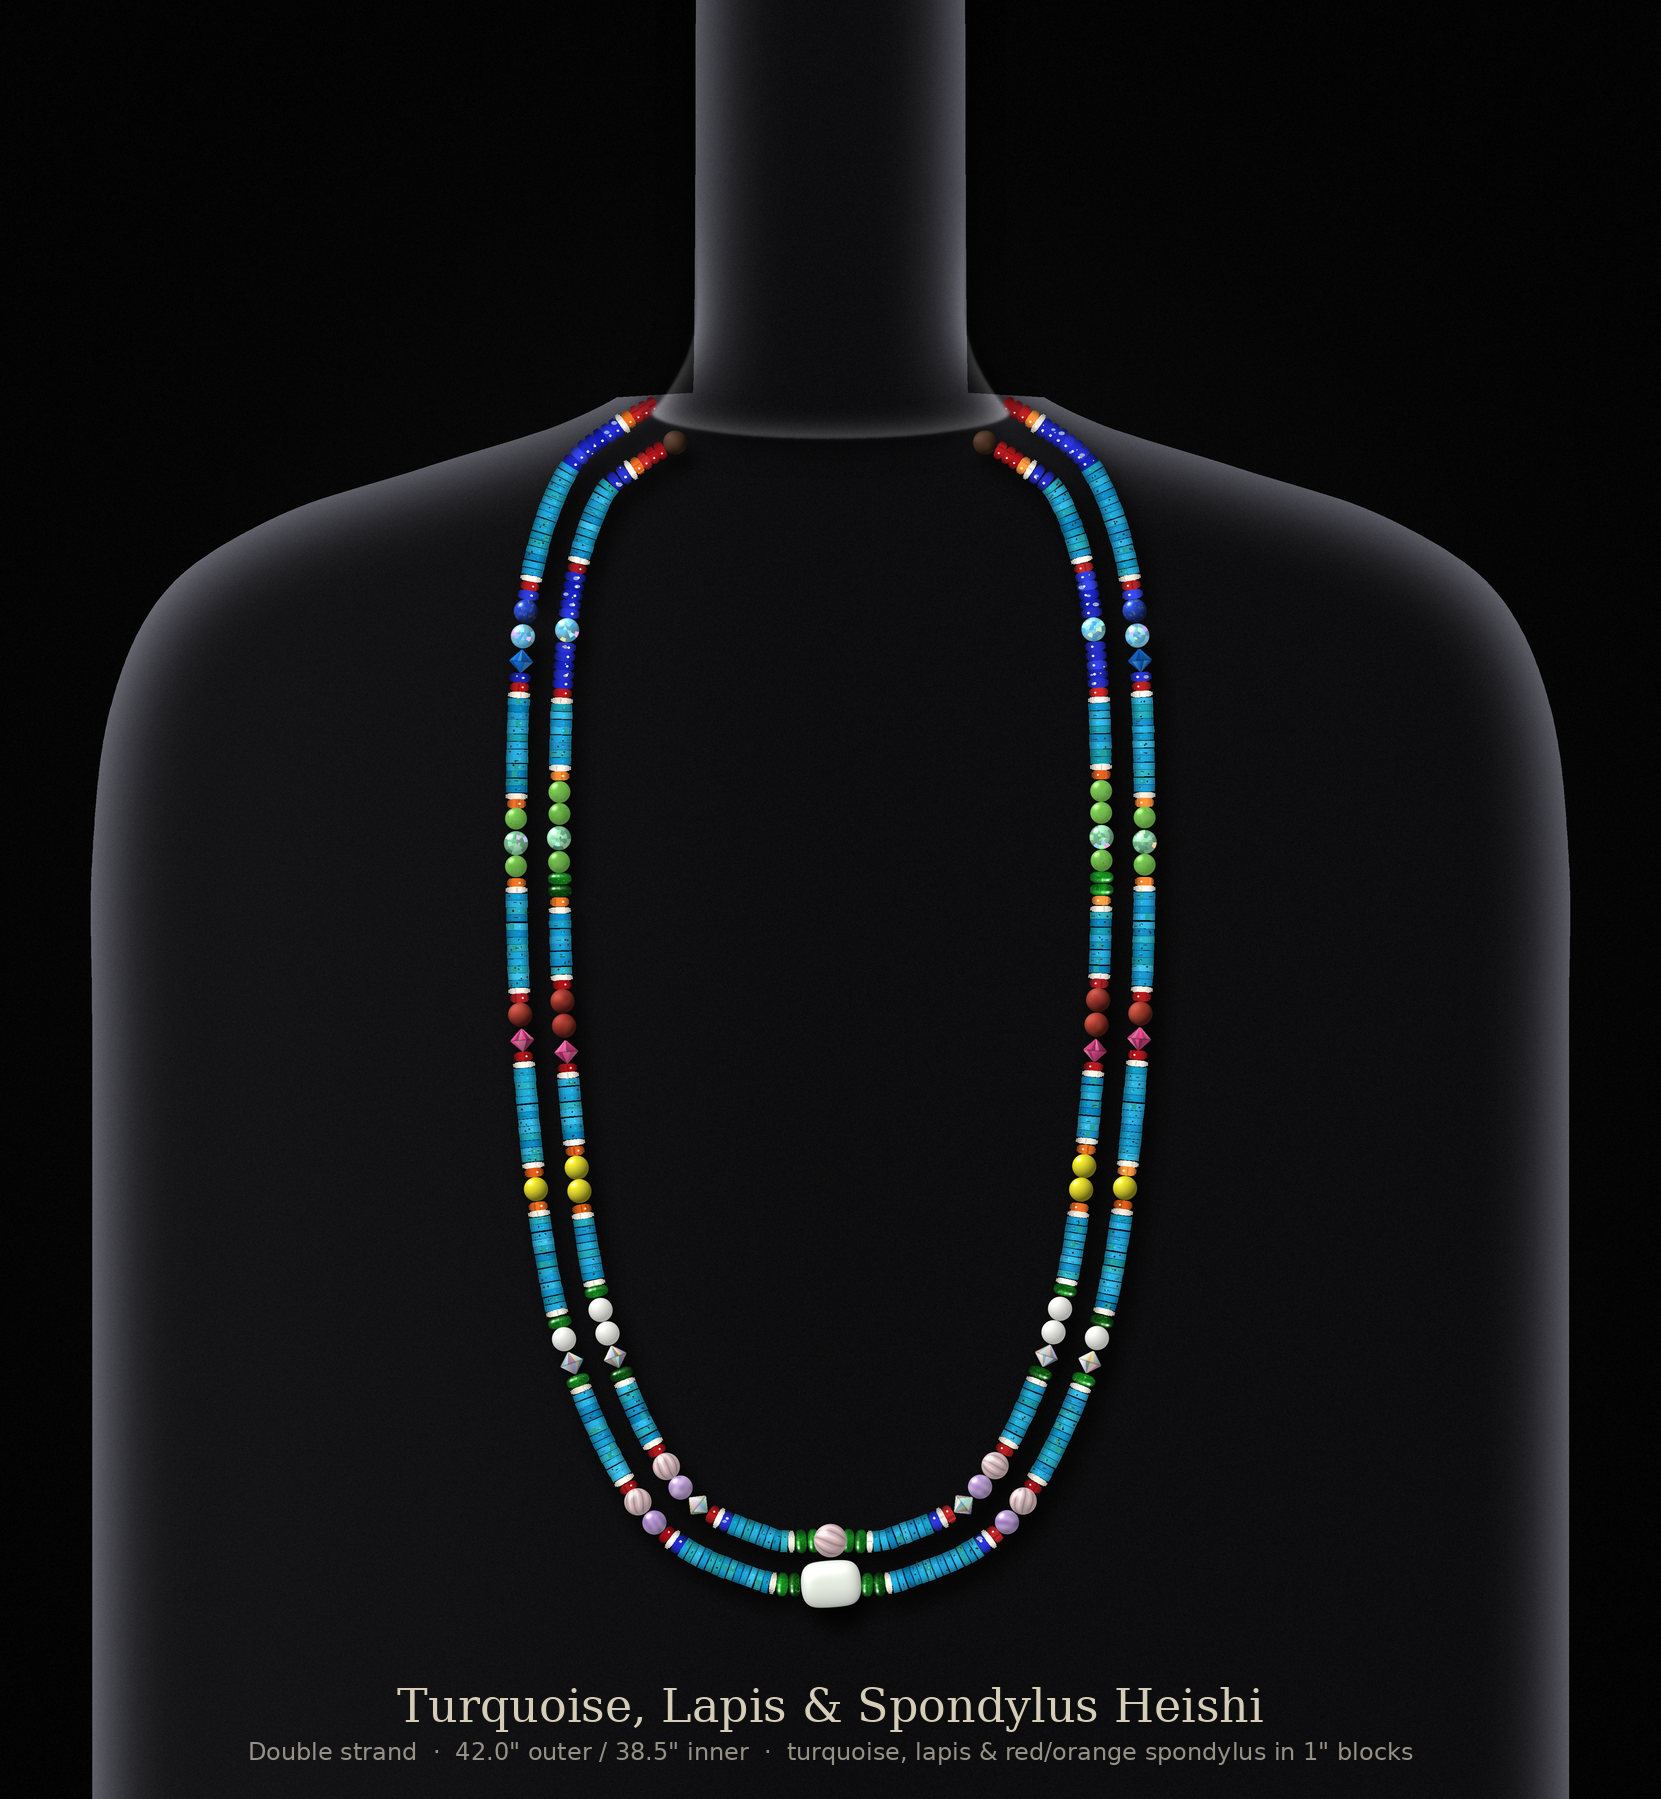
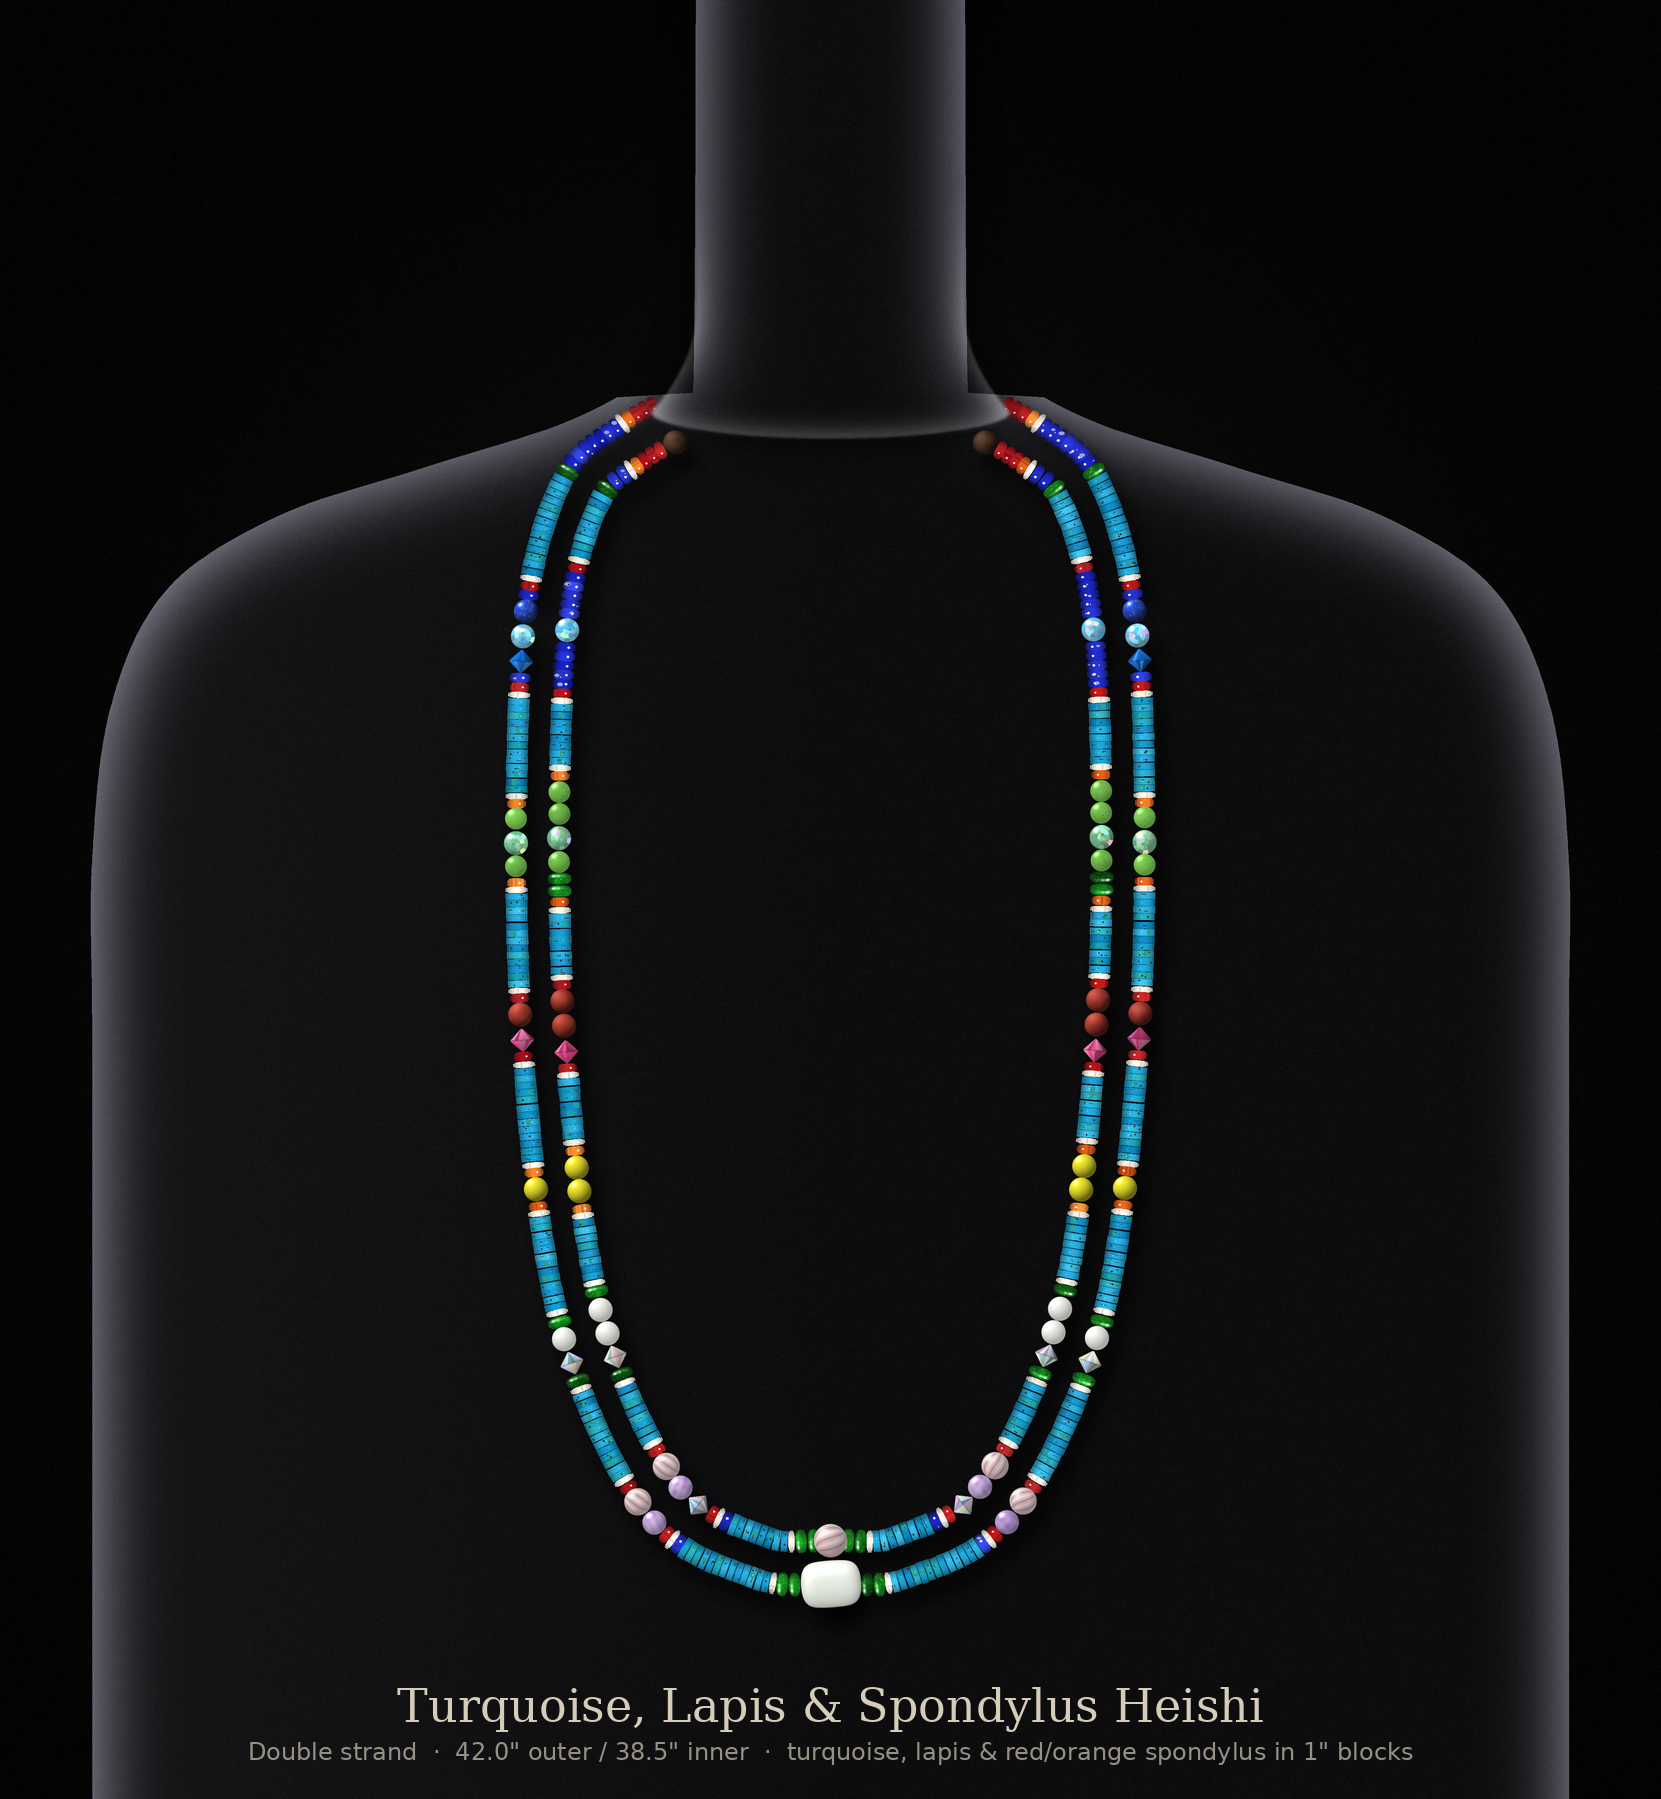
Version 5: chrome diopside where the top lapis meets the turquoise
Claude-Session: https://claude.ai/code/session_014be1vF4Rdf8sv9Si75Gudv

diff --git a/necklace/render_necklace.py b/necklace/render_necklace.py
@@ -1564,7 +1564,9 @@ if V4:
                     for q in range(nl2):
                         put(g + _ll / nl2 * (q + 0.5), "lapisH")
                     V4_USED["lapisH"] = V4_USED.get("lapisH", 0) + 2 * nl2
-                    _t0, _tl = g + 7.0 * nt, gl - 7.0 * nt
+                    put(g + _ll + SZ["diop"] / 2, "diop")    # chrome diopside where the lapis meets the turquoise
+                    V4_USED["diop"] = V4_USED.get("diop", 0) + 2
+                    _t0, _tl = g + _ll + SZ["diop"], gl - _ll - SZ["diop"]
                     nq = max(1, int(round(_tl / 2.4)))
                     for q in range(nq):
                         put(_t0 + _tl / nq * (q + 0.5), "turq", _tl / nq)
